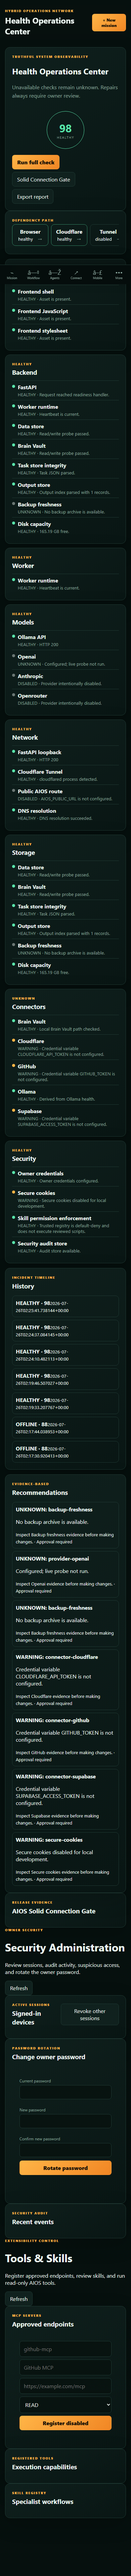
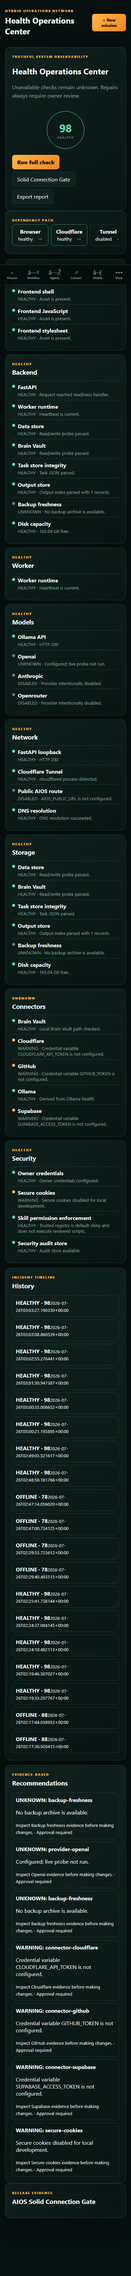
Prioritize compact Copilot manager controls

diff --git a/web/app.js b/web/app.js
@@ -77,7 +77,7 @@ async function api(path, options = {}) {
 function switchView(view) {
   view = LEGACY_VIEW_REDIRECTS[view] || view;
   const commandCenterModule = ["command-center", "copilot", "projects"].includes(view);
-  document.querySelectorAll(".app-view").forEach(section => section.classList.remove("active"));
+  document.querySelectorAll(".app-view, .view").forEach(section => section.classList.remove("active"));
   document.querySelectorAll(".nav-item, .mobile-nav-item").forEach(button => button.classList.remove("active"));
 
   const section = document.querySelector(`#view-${view}`);
@@ -368,7 +368,10 @@ document.querySelectorAll("[data-command-module]").forEach(button => {
   button.addEventListener("click", () => {
     switchView(button.dataset.commandModule);
     if (button.dataset.commandModule === "projects") loadProjects();
-    if (button.dataset.commandModule === "copilot") runCopilotConnectivityChecks();
+    if (button.dataset.commandModule === "copilot") {
+      loadManagerControlPlane();
+      runCopilotConnectivityChecks();
+    }
   });
 });
 
@@ -4270,6 +4273,62 @@ async function loadCopilotRuntimeState() {
   }
 }
 
+function setManagerControlStatus(selector, status, text) {
+  const control = $(selector);
+  if (!control) return;
+  control.dataset.status = status;
+  control.textContent = text;
+}
+
+async function loadManagerControlPlane() {
+  const [tools, desktop, network, devices] = await Promise.allSettled([
+    api("/api/tools/registry"),
+    api("/api/desktop-companion/status"),
+    api("/api/health/network"),
+    api("/api/mobile/devices"),
+  ]);
+  if (tools.status === "fulfilled") {
+    const enabled = (tools.value.tools || []).filter(tool => tool.enabled).length;
+    setManagerControlStatus("#managerToolsStatus", "healthy", `Tools: ${enabled} enabled`);
+    setManagerControlStatus(
+      "#managerTerminalStatus",
+      tools.value.policy?.raw_terminal === "blocked" ? "warning" : "healthy",
+      tools.value.policy?.raw_terminal === "blocked"
+        ? "Terminal: scoped actions"
+        : "Terminal: policy controlled",
+    );
+  } else {
+    setManagerControlStatus("#managerToolsStatus", "offline", "Tools: unavailable");
+    setManagerControlStatus("#managerTerminalStatus", "offline", "Terminal: unavailable");
+  }
+  if (desktop.status === "fulfilled") {
+    setManagerControlStatus(
+      "#managerDesktopStatus",
+      desktop.value.connected ? "healthy" : "offline",
+      `Desktop: ${desktop.value.connected ? "connected" : "offline"} · ${desktop.value.pending_approvals || 0} approvals`,
+    );
+  } else {
+    setManagerControlStatus("#managerDesktopStatus", "offline", "Desktop: unavailable");
+  }
+  if (network.status === "fulfilled" && devices.status === "fulfilled") {
+    const tunnel = (network.value.components || [])
+      .find(component => component.id === "cloudflare-tunnel");
+    const paired = devices.value.length;
+    const tunnelReady = tunnel?.status === "healthy";
+    setManagerControlStatus(
+      "#managerRemoteStatus",
+      tunnelReady && paired ? "healthy" : "warning",
+      `Remote: ${tunnelReady ? "tunnel ready" : "check tunnel"} · ${paired} phone(s)`,
+    );
+  } else {
+    setManagerControlStatus("#managerRemoteStatus", "unknown", "Remote: status unavailable");
+  }
+}
+
+document.querySelectorAll("[data-manager-view]").forEach(button => {
+  button.addEventListener("click", () => switchView(button.dataset.managerView));
+});
+
 const SpeechRecognitionApi = window.SpeechRecognition || window.webkitSpeechRecognition;
 let copilotRecognition = null;
 if (SpeechRecognitionApi) {
@@ -4390,6 +4449,15 @@ async function runCopilotConnectivityChecks() {
       ? "Browser speech synthesis is available; use Test speak response."
       : "This browser does not provide speech synthesis.",
   );
+  const summary = $("#copilotConnectivitySummary");
+  if (summary) {
+    const failed = document.querySelectorAll(
+      '#copilotConnectivityGrid [data-status="offline"], #copilotConnectivityGrid [data-status="critical"]'
+    ).length;
+    summary.textContent = failed
+      ? `${failed} connection problem(s) — expand`
+      : "Core connections checked — expand";
+  }
   status.textContent = "Connectivity check finished. Open Health Operations for full evidence.";
 }
 

diff --git a/web/styles.css b/web/styles.css
@@ -29,7 +29,7 @@ dialog{border:1px solid var(--line);background:#0b1715;color:var(--text);border-
 @media(max-width:1050px){.app-shell{grid-template-columns:78px 1fr}.brand div:last-child,.nav-item{font-size:0}.nav-item:first-letter{font-size:18px}.sidebar{padding:20px 10px}.brand{padding-left:4px}.hero-grid,.content-grid{grid-template-columns:1fr}.bottom-grid{grid-template-columns:1fr}}
 @media(max-width:700px){.app-shell{display:block}.sidebar{display:none}main{padding:15px}.topbar{align-items:center}.topbar h1{font-size:24px}.mode-pill{display:none}.hero-grid{display:block}.system-card{margin-top:14px}.workflow.active{grid-template-columns:1fr}.node:after{content:"↓";right:50%;top:auto;bottom:-15px}.connector-list{grid-template-columns:1fr 1fr}.form-grid{grid-template-columns:1fr}}
 
-.app-view{display:none}.app-view.active{display:block}
+.app-view,.view{display:none}.app-view.active,.view.active{display:block}
 .specialist-grid{display:grid;grid-template-columns:repeat(3,minmax(240px,1fr));gap:14px}
 .agent-card,.connector-card,.approval-card{border:1px solid var(--line);background:#081310;border-radius:11px;padding:16px}
 .agent-card-head{display:flex;align-items:center;gap:12px}.avatar.large{width:48px;height:48px}.agent-card h3,.connector-card h3{margin:0 0 4px}.agent-card-head span,.connector-card p{color:var(--muted);font-size:11px;margin:0}
@@ -1108,6 +1108,31 @@ button,
 .roadmap-columns>div{border:1px solid var(--line);border-radius:9px;padding:10px}
 .roadmap-columns h4{margin:0 0 7px}.roadmap-columns ul{margin:0;padding-left:18px;color:var(--muted);line-height:1.6}
 .copilot-reminder-center{margin-bottom:14px}
+#view-copilot.active{display:flex;flex-direction:column;gap:12px}
+#view-copilot>.command-center-tabs{order:0;margin-bottom:0}
+#view-copilot>.copilot-chat-layout{order:1}
+#view-copilot>.copilot-connectivity-center{order:2}
+#view-copilot>.copilot-reminder-center{order:3;margin-bottom:0}
+.copilot-reminder-center>summary,
+.copilot-connectivity-center>summary{
+  cursor:pointer;list-style:none;display:flex;align-items:center;justify-content:space-between;
+  gap:12px;min-height:42px
+}
+.copilot-reminder-center>summary::-webkit-details-marker,
+.copilot-connectivity-center>summary::-webkit-details-marker{display:none}
+.copilot-reminder-center>summary h2{font-size:15px;margin:2px 0}
+.copilot-reminder-center>summary h2 small,
+.copilot-connectivity-center>summary span{color:var(--muted);font-size:10px;font-weight:500}
+.copilot-reminder-center[open]>summary,
+.copilot-connectivity-center[open]>summary{margin-bottom:12px}
+.manager-control-plane{display:flex;gap:6px;flex-wrap:wrap;margin-top:10px}
+.manager-control-plane button{
+  min-height:28px;padding:5px 8px;border-radius:999px;font-size:9px;color:var(--muted)
+}
+.manager-control-plane button[data-status="healthy"]{border-color:#2ea98b;color:#7ee0c5}
+.manager-control-plane button[data-status="warning"],
+.manager-control-plane button[data-status="unknown"]{border-color:var(--accent);color:var(--accent)}
+.manager-control-plane button[data-status="offline"]{border-color:#d85c55;color:#ff9c98}
 #copilotReminderList{display:grid;gap:8px}
 .copilot-reminder-card{display:grid;grid-template-columns:1fr auto;gap:10px;border:1px solid var(--line);border-radius:10px;padding:10px}
 .copilot-reminder-card.high{border-color:rgba(255,181,71,.55)}
@@ -1115,6 +1140,10 @@ button,
 .copilot-reminder-actions{display:flex;gap:7px;align-items:flex-start;flex-wrap:wrap}
 @media(max-width:850px){.roadmap-summary{grid-template-columns:1fr 1fr}.roadmap-columns{grid-template-columns:1fr}.roadmap-header{flex-direction:column}}
 @media(max-width:560px){.roadmap-summary{grid-template-columns:1fr}.copilot-reminder-card{grid-template-columns:1fr}}
+@media(max-width:560px){
+  .copilot-reminder-center>summary,.copilot-connectivity-center>summary{align-items:flex-start}
+  .manager-control-plane{display:grid;grid-template-columns:1fr 1fr}
+}
 
 
 .quality-gate-panel{display:grid;gap:10px}

diff --git a/web/index.html b/web/index.html
@@ -546,18 +546,22 @@
           <button type="button" data-command-module="projects">Projects</button>
         </nav>
 
-          <article id="copilotReminderCenter" class="panel copilot-reminder-center">
-            <div class="panel-title">
+          <details id="copilotReminderCenter" class="panel copilot-reminder-center">
+            <summary class="panel-title">
               <div>
                 <p class="eyebrow">COPILOT REMINDERS</p>
-                <h2>Needs your attention</h2>
+                <h2>Needs your attention <small>— expand</small></h2>
               </div>
               <span id="copilotReminderCount" class="status-chip">0</span>
-            </div>
+            </summary>
             <div id="copilotReminderList"></div>
-          </article>
+          </details>
 
-          <article class="panel copilot-connectivity-center">
+          <details class="panel copilot-connectivity-center">
+            <summary>
+              <strong>Connection diagnostics</strong>
+              <span id="copilotConnectivitySummary">Not checked — expand</span>
+            </summary>
             <div class="panel-title">
               <div>
                 <p class="eyebrow">LIVE CONNECTION DIAGNOSTICS</p>
@@ -579,7 +583,7 @@
             <p id="copilotConnectivityStatus" class="brain-action-status">
               Checks report actual availability; unavailable services are never marked connected.
             </p>
-          </article>
+          </details>
 
         <div class="copilot-chat-layout">
           <article class="panel copilot-chat-panel">
@@ -624,6 +628,12 @@
                   <span id="copilotWorkerIndicator">Worker: unknown</span>
                   <span id="copilotMemoryIndicator">Memory: checking</span>
                   <span>Privacy: local-first</span>
+                </div>
+                <div class="manager-control-plane" aria-label="Copilot manager control plane">
+                  <button id="managerToolsStatus" type="button" data-manager-view="tools-skills">Tools: checking</button>
+                  <button id="managerDesktopStatus" type="button" data-manager-view="connectors">Desktop: checking</button>
+                  <button id="managerTerminalStatus" type="button" data-manager-view="connectors">Terminal: scoped</button>
+                  <button id="managerRemoteStatus" type="button" data-manager-view="mobile">Remote: checking</button>
                 </div>
               </div>
               <div class="voice-controls" aria-label="Voice controls">

diff --git a/tests/test_unified_command_center.py b/tests/test_unified_command_center.py
@@ -31,3 +31,29 @@ def test_copilot_has_real_connectivity_and_response_checks() -> None:
     ):
         assert endpoint in script
     assert "SpeechSynthesisUtterance" in script
+
+
+def test_copilot_manager_is_first_and_secondary_panels_are_compact() -> None:
+    html = (ROOT / "web" / "index.html").read_text(encoding="utf-8")
+    styles = (ROOT / "web" / "styles.css").read_text(encoding="utf-8")
+    script = (ROOT / "web" / "app.js").read_text(encoding="utf-8")
+
+    assert '<details id="copilotReminderCenter"' in html
+    assert '<details class="panel copilot-connectivity-center">' in html
+    assert "#view-copilot>.copilot-chat-layout{order:1}" in styles
+    assert ".app-view,.view{display:none}" in styles
+    assert 'querySelectorAll(".app-view, .view")' in script
+    for control in (
+        "managerToolsStatus",
+        "managerDesktopStatus",
+        "managerTerminalStatus",
+        "managerRemoteStatus",
+    ):
+        assert f'id="{control}"' in html
+    for endpoint in (
+        "/api/tools/registry",
+        "/api/desktop-companion/status",
+        "/api/mobile/devices",
+    ):
+        assert endpoint in script
+    assert "raw_terminal" in script

diff --git a/tests/test_browser_smoke.py b/tests/test_browser_smoke.py
@@ -112,6 +112,15 @@ def test_critical_browser_flow() -> None:
             page.wait_for_timeout(300)
             assert page.locator("#copilotAvatar").is_visible()
             assert page.locator("#startCopilotListening").is_visible()
+            assert page.locator("#copilotConnectivityGrid").is_hidden()
+            assert not page.locator("#copilotReminderCenter").evaluate(
+                "element => element.open"
+            )
+            assert page.locator("#managerDesktopStatus").is_visible()
+            page.locator(
+                '#managerDesktopStatus[data-status="healthy"]'
+            ).wait_for(timeout=15_000)
+            page.locator(".copilot-connectivity-center > summary").click()
             assert page.locator("#copilotConnectivityGrid").is_visible()
             page.locator(
                 '#copilotConnectivityGrid [data-check="backend"][data-status="healthy"]'

diff --git a/scripts/capture_phase_screenshots.py b/scripts/capture_phase_screenshots.py
@@ -81,7 +81,10 @@ def main() -> None:
 
             desktop = browser.new_page(viewport={"width": 1440, "height": 1000})
             sign_in(desktop, port)
-            desktop.locator('.nav-item[data-view="copilot"]').click()
+            desktop.locator('.nav-item[data-view="command-center"]').click()
+            desktop.locator(
+                '#view-command-center [data-command-module="copilot"]'
+            ).click()
             desktop.locator("#copilotAvatar").wait_for()
             desktop.screenshot(
                 path=SCREENSHOTS / "copilot-desktop.png",
